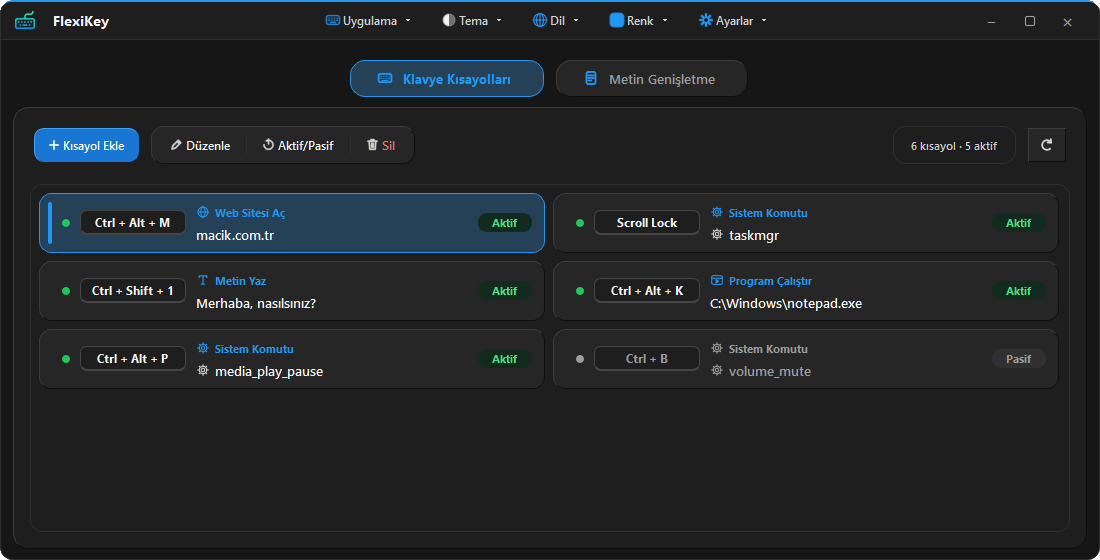
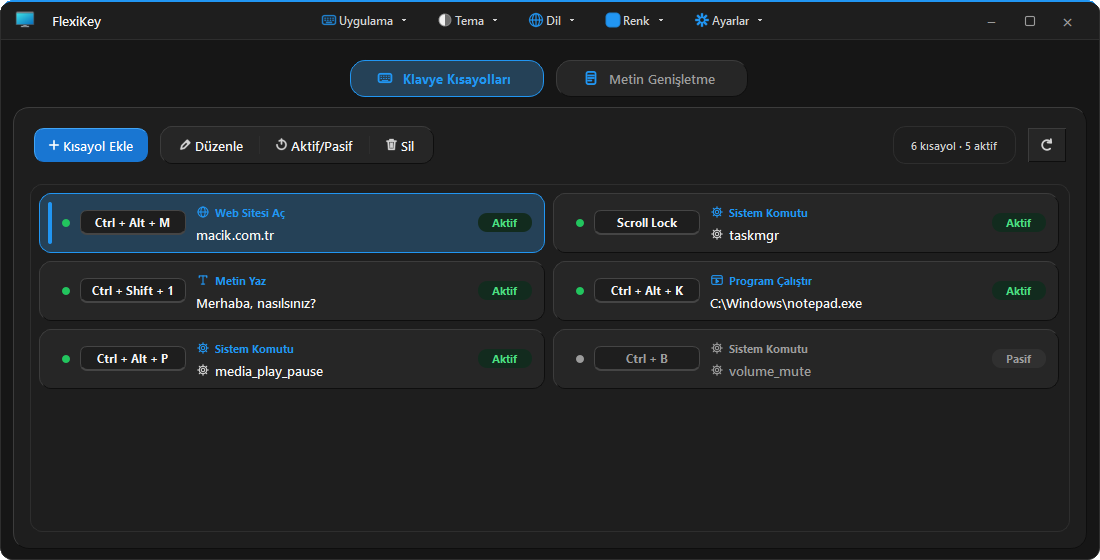
1.0.11: the update window writes the download percentage the way the language does (%41 / 41%), like its bar; README links the GitHub release; refreshed screenshots; message box tests stop their safety timers

diff --git a/tests/test_message_box.py b/tests/test_message_box.py
@@ -507,6 +507,15 @@ class TestHookTests(Base):
 
 
 class InputDialogTests(Base):
+    def _safety_close(self) -> None:
+        """Closes a dialog still open after 5 s. The timer stops when the test ends: left running, it closed a later
+        test's box (on a slow machine ParentGoneWhileOpenTest's box shut before its parent went away)."""
+        timer = QTimer()
+        timer.setSingleShot(True)
+        timer.timeout.connect(lambda: (QApplication.activeModalWidget() or QWidget()).close())
+        timer.start(5000)
+        self.addCleanup(timer.stop)
+
     def test_hook_results_for_all_getters(self) -> None:
         MessageBox.set_test_hook(lambda d: ("Yeni Ad", True))
         self.assertEqual(InputDialog.getText(None, "T", "Ad", text="Eski"), ("Yeni Ad", True))
@@ -573,12 +582,12 @@ class InputDialogTests(Base):
             QTest.keyClick(dlg, Qt.Key.Key_Return)
 
         QTimer.singleShot(0, act)
-        QTimer.singleShot(5000, lambda: (QApplication.activeModalWidget() or QWidget()).close())
+        self._safety_close()
         self.assertEqual(InputDialog.getText(None, "Cihaz", "Ad", text="eski"), ("Ofis PC", True))
 
     def test_real_exec_escape_and_cancel_button(self) -> None:
         QTimer.singleShot(0, lambda: QTest.keyClick(QApplication.activeModalWidget(), Qt.Key.Key_Escape))
-        QTimer.singleShot(5000, lambda: (QApplication.activeModalWidget() or QWidget()).close())
+        self._safety_close()
         self.assertEqual(InputDialog.getText(None, "Cihaz", "Ad", text="eski"), ("", False))
         QTimer.singleShot(0, lambda: QApplication.activeModalWidget().button(SB.Cancel).click())
         self.assertEqual(InputDialog.getInt(None, "T", "Sayı", 3, 0, 9), (3, False))
@@ -590,7 +599,7 @@ class InputDialogTests(Base):
             QTest.keyClick(dlg, Qt.Key.Key_Return)
 
         QTimer.singleShot(0, act)
-        QTimer.singleShot(5000, lambda: (QApplication.activeModalWidget() or QWidget()).close())
+        self._safety_close()
         self.assertEqual(InputDialog.getInt(None, "T", "px", 1920, 240, 7680, 10), (2500, True))
 
     def test_get_item_editable_flag(self) -> None:

diff --git a/tests/test_update_dialog.py b/tests/test_update_dialog.py
@@ -114,12 +114,22 @@ class DownloadStateTests(DialogTestCase):
         dialog._on_update()                                   # ikinci tıklama (örn. çift tık)
         self.assertEqual(self.signals["accepted"], 1)
 
+    def test_percent_in_english(self):
+        dialog = self.make(lang="en")
+        dialog.update_btn.click()
+        dialog.update_download_progress(5_000_000, 10_000_000, 0.0)
+        dialog.progress_bar.finish_animation()
+        self.assertEqual(dialog.progress_label.text(), "4.77 MB / 9.54 MB (50%)")
+        self.assertEqual(dialog.progress_bar.text(), "50%")
+
     def test_progress_shows_bytes_percent_and_speed(self):
         dialog = self.make()
         dialog.update_btn.click()
         dialog.update_download_progress(5_000_000, 10_000_000, 2.5)
         self.assertEqual(dialog.progress_bar.value(), 50)
-        self.assertEqual(dialog.progress_label.text(), "4.77 MB / 9.54 MB (50%) - 2.50 MB/s")
+        self.assertEqual(dialog.progress_label.text(), "4.77 MB / 9.54 MB (%50) - 2.50 MB/s")
+        dialog.progress_bar.finish_animation()
+        self.assertEqual(dialog.progress_bar.text(), "%50", "the bar and the line write the percent alike")
         dialog.update_download_progress(1024, 0, 0.0)          # toplam bilinmiyor: belirsiz çubuk
         self.assertEqual(dialog.progress_bar.maximum(), 0)
         self.assertEqual(dialog.progress_label.text(), "1.00 KB indirildi")

diff --git a/src/gui/update_dialog.py b/src/gui/update_dialog.py
@@ -120,6 +120,7 @@ class UpdateDialog(ChromeDialog):
         self.progress_bar.setRange(0, 100)
         self.progress_bar.setValue(0)
         self.progress_bar.setMinimumHeight(18)
+        self.progress_bar.setFormat(t("pct", self.lang).format("%p"))  # the bar and the line under it alike: "%41" in Turkish, "41%" in English
         self.progress_bar.setVisible(False)
         layout.addWidget(self.progress_bar)
 
@@ -248,7 +249,7 @@ class UpdateDialog(ChromeDialog):
             self.progress_bar.setValue(percent)
 
             total_str = format_bytes(total)
-            progress_text = f"{downloaded_str} / {total_str} ({percent}%)"
+            progress_text = f"{downloaded_str} / {total_str} ({t('pct', self.lang).format(percent)})"
         else:
             # Toplam boyut bilinmiyorsa belirsiz mod
             self.progress_bar.setRange(0, 0)

diff --git a/src/utils/locales.py b/src/utils/locales.py
@@ -194,6 +194,7 @@ LOCALES: dict[str, dict[str, str]] = {
         "update_later": "Daha Sonra",
         "update_now": "Şimdi Güncelle",
         "update_downloading": "İndiriliyor…",
+        "pct": "%{}",
         "update_downloaded_bytes": "{} indirildi",
         "update_download_done": "İndirme tamamlandı!",
         "update_installing": "Kuruluyor, lütfen bekleyin…",
@@ -638,6 +639,7 @@ LOCALES: dict[str, dict[str, str]] = {
         "update_later": "Later",
         "update_now": "Update Now",
         "update_downloading": "Downloading…",
+        "pct": "{}%",
         "update_downloaded_bytes": "{} downloaded",
         "update_download_done": "Download complete!",
         "update_installing": "Installing, please wait…",

diff --git a/src/utils/updater.py b/src/utils/updater.py
@@ -131,7 +131,7 @@ class UpdateChecker(QObject):
     check_failed = pyqtSignal()  # yalnızca manuel kontrol başarısız olursa
     notice_received = pyqtSignal(object)  # remote_notice.Notice (duyuru satırı)
 
-    CURRENT_VERSION = "1.0.10"
+    CURRENT_VERSION = "1.0.11"
     UPDATE_CHECK_URL = "https://macik.com.tr/api/updates/check"
     APP_NAME = "FlexiKey"
     # Açılışta: son denetim bundan eskiyse hemen denetlenir (uzun süre açılmayanlar yeni sürümü hemen görür).

diff --git a/README.md b/README.md
@@ -85,6 +85,8 @@ Electron apps cannot be detected, so the timeout is the real safeguard.
 **Official binary.** Download `FlexiKey.exe` from [macik.com.tr](https://macik.com.tr). It is a single file and needs no
 installer. Put it in a folder you can write to (for example the Desktop) so that in-app updates can replace it.
 
+Each [GitHub release](https://github.com/Aseloth99/flexikey/releases/latest) also carries an exe built from this repository's source at that version's tag. It takes its updates from the same channel as the official build.
+
 **From source.** Requires Windows and Python 3.12 (the version the project is developed and tested with).
 
 ```powershell

diff --git a/README.tr.md b/README.tr.md
@@ -87,6 +87,8 @@ alanları algılanamaz; asıl güvence zaman aşımıdır.
 **Resmî ikili.** `FlexiKey.exe` dosyasını [macik.com.tr](https://macik.com.tr) adresinden indirin. Tek dosyadır, kurulum
 gerektirmez. Uygulama içi güncellemelerin dosyayı değiştirebilmesi için yazılabilir bir klasöre (örneğin Masaüstü) koyun.
 
+Her [GitHub sürümünde](https://github.com/Aseloth99/flexikey/releases/latest) o sürümün etiketindeki kaynaktan derlenmiş bir exe de bulunur. Güncellemelerini resmî sürümle aynı kanaldan alır.
+
 **Kaynaktan.** Windows ve Python 3.12 gerekir (projenin geliştirildiği ve denendiği sürüm).
 
 ```powershell
